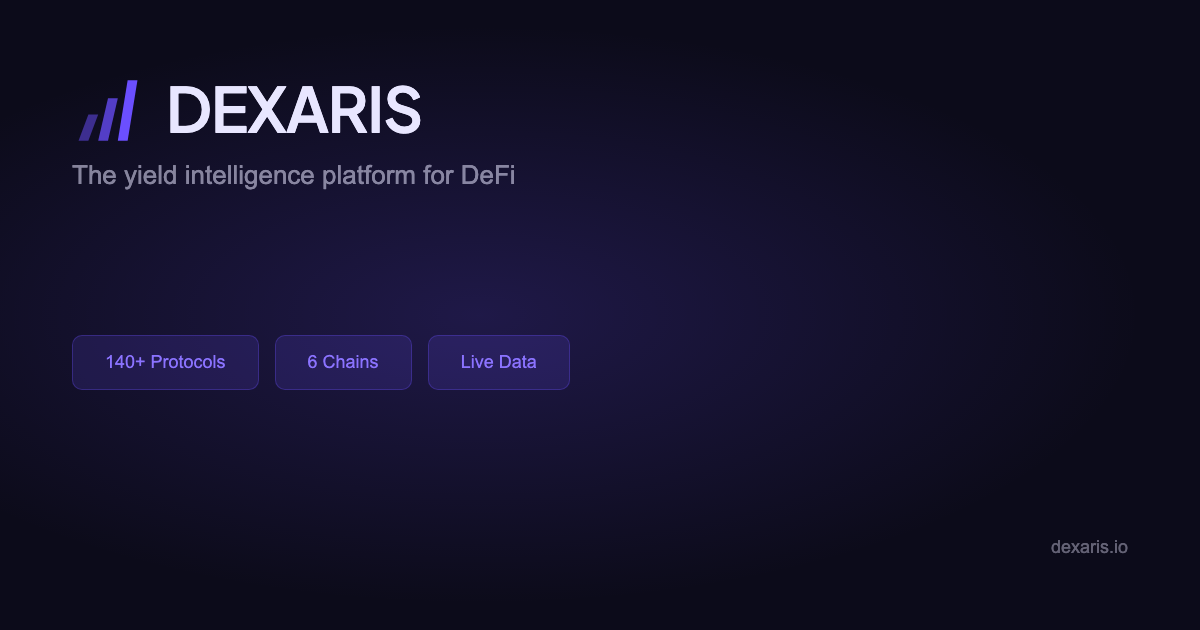
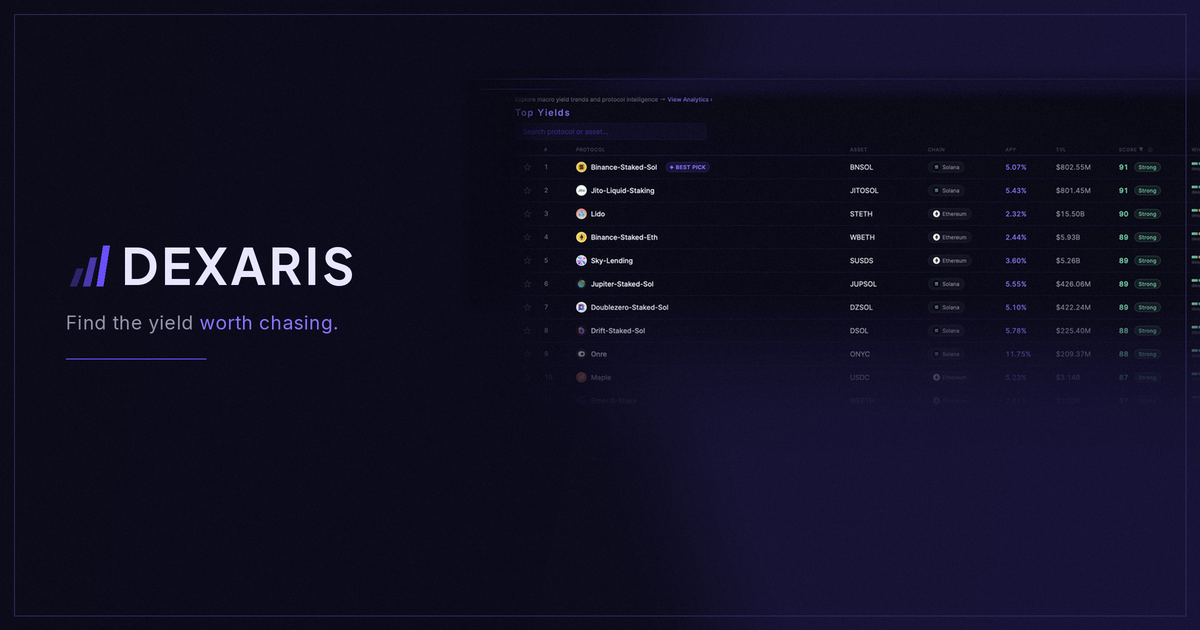
feat: update OG/social preview image and meta tags
Replace public/og-image.png with the new design and add the missing
og:image:width, og:image:height, and twitter:site meta tags. Existing
SVG-based OG generation pipeline (public/og-image.svg,
scripts/gen-og-image.mjs) left in place but not referenced — PNG
takes priority per meta tags.

diff --git a/index.html b/index.html
@@ -11,16 +11,19 @@
 
     <!-- Open Graph for link previews -->
     <meta property="og:title" content="Dexaris — DeFi Yield Intelligence" />
-    <meta property="og:description" content="Dexaris scores and ranks DeFi yields across 140+ protocols and 6 chains. Find the best risk-adjusted yields with the Dexaris Score — free, live data, no signup required." />
+    <meta property="og:description" content="Score and compare 1,300+ DeFi yield pools across ETH, SOL, ARB, BASE, AVAX and Polygon. Free, no signup required." />
     <meta property="og:image" content="https://dexaris.io/og-image.png" />
+    <meta property="og:image:width" content="1200" />
+    <meta property="og:image:height" content="630" />
     <meta property="og:url" content="https://dexaris.io" />
     <meta property="og:type" content="website" />
     <meta property="og:site_name" content="Dexaris" />
 
     <!-- Twitter card -->
     <meta name="twitter:card" content="summary_large_image" />
+    <meta name="twitter:site" content="@DexarisHQ" />
     <meta name="twitter:title" content="Dexaris — DeFi Yield Intelligence" />
-    <meta name="twitter:description" content="Dexaris scores and ranks DeFi yields across 140+ protocols and 6 chains. Find the best risk-adjusted yields with the Dexaris Score — free, live data, no signup required." />
+    <meta name="twitter:description" content="Score and compare 1,300+ DeFi yield pools across ETH, SOL, ARB, BASE, AVAX and Polygon. Free, no signup required." />
     <meta name="twitter:image" content="https://dexaris.io/og-image.png" />
 
     <link rel="icon" type="image/svg+xml" href="/favicon.svg">